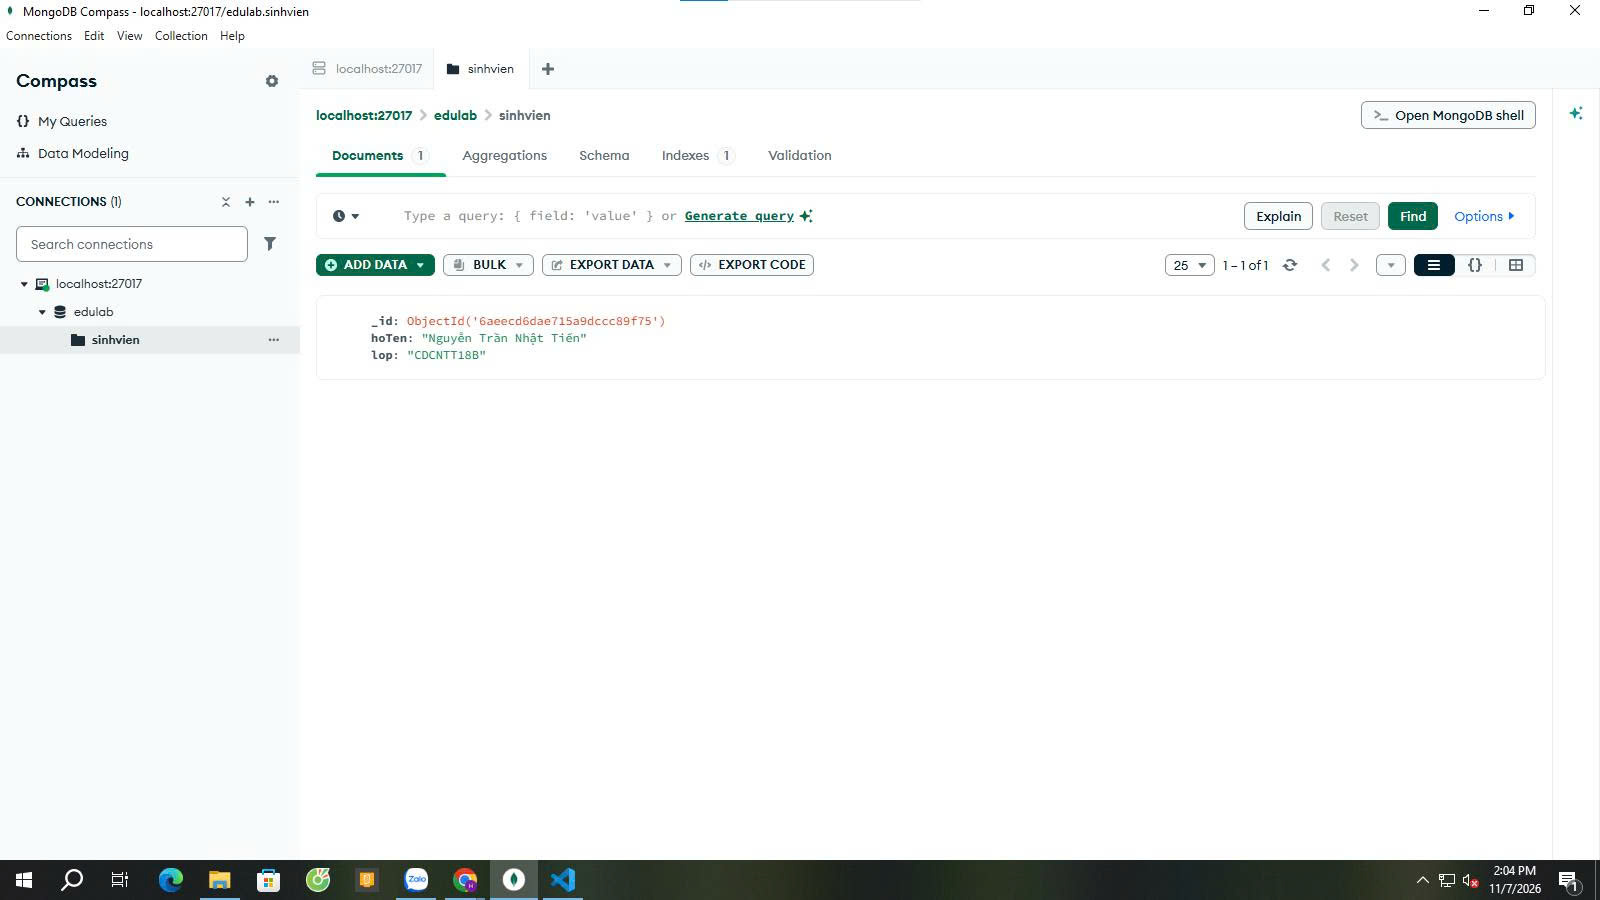
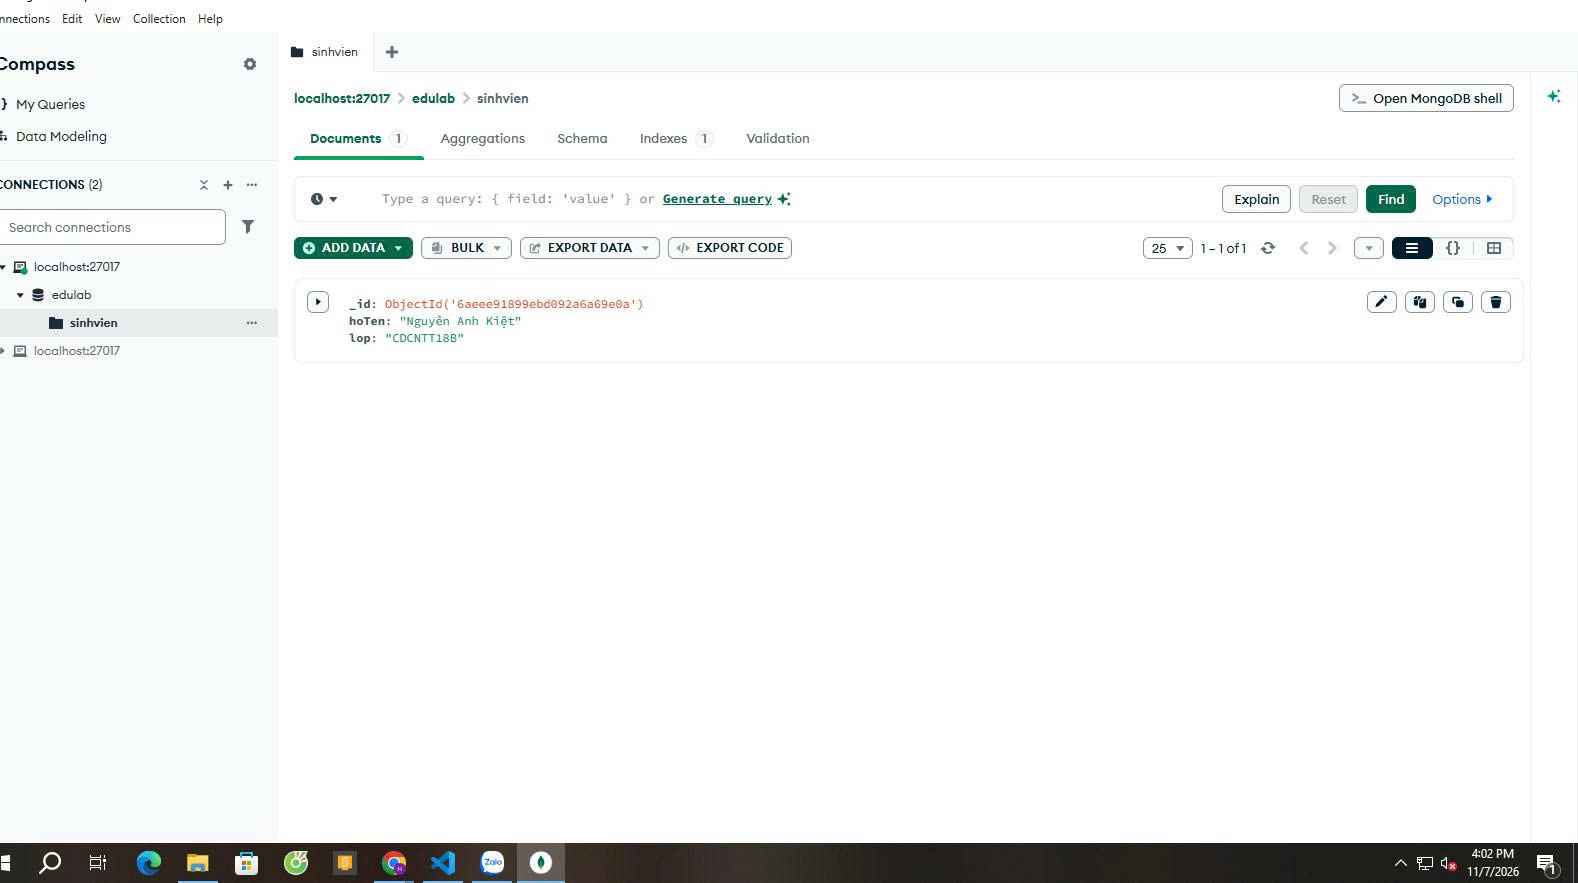
Cap nhat bai 1

diff --git a/hello.js b/hello.js
@@ -1,2 +1,2 @@
-console.log("Xin chào, mình tên là Nguyễn Trần Nhật Tiến!");
+console.log("Xin chào, mình tên là Nguyễn Anh Kiệt!");
 console.log("Phiên bản Node.js:", process.version);

diff --git a/README.md b/README.md
@@ -1,6 +1,6 @@
 # Bài 1 — Tổng quan Node.js và MongoDB
 
-Sinh viên: Nguyễn Trần Nhật Tiến | Mã SV:CDCNTT18B23 | Lớp: CDCNTT18B
+Sinh viên: Nguyễn Anh Kiệt | Mã SV:CDCNTT18B14 | Lớp: CDCNTT18B
 
 ## 1. Tổng quan
 - **Node.js**: môi trường chạy JavaScript phía server, dựa trên engine V8 của Chrome.
@@ -32,7 +32,7 @@ Kết nối Compass tới `mongodb://localhost:27017`, tạo database `edulab`, 
 
 ## 5. Tạo và chạy hello.js
 ```javascript
-console.log("Xin chào, mình tên là Nguyễn Trần Nhật Tiến!");
+console.log("Xin chào, mình tên là Nguyễn Anh Kiệt!");
 console.log("Phiên bản Node.js:", process.version);
 ```
 Chạy: `node hello.js`
